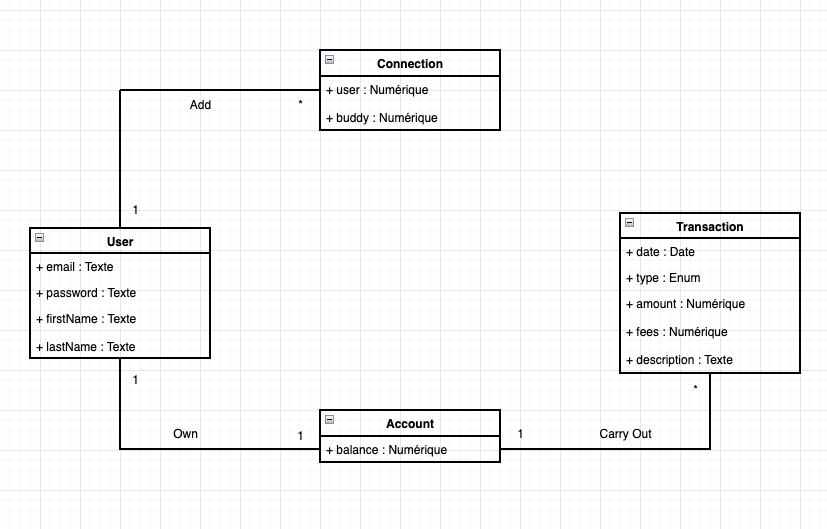
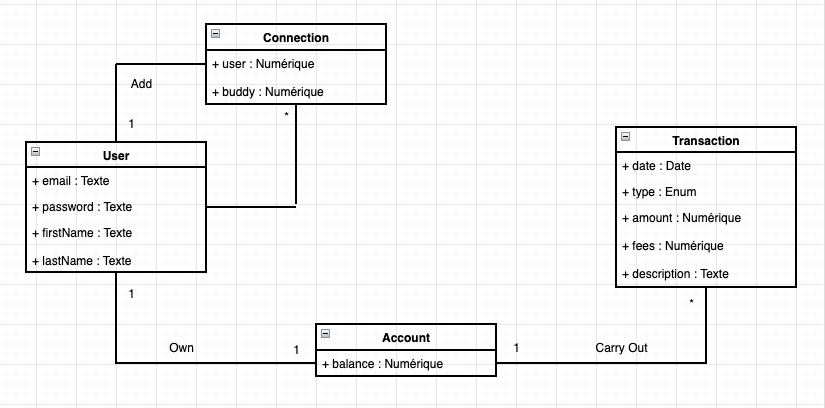
Modification du diagramme UML, des contructeurs des Controllers et de la méthode makeABankTransfer

Changed region(s): [[0.0303, 0.0588, 0.9697, 0.9412]]

diff --git a/src/main/resources/templates/transfer.html b/src/main/resources/templates/transfer.html
@@ -74,7 +74,7 @@
                                 </label>
                             </div>
                             <div id="buddyTrans" class="col-md-4" style="display: none">
-                                <select id="buddyAccount" name="buddyAccount" class="form-select" required>
+                                <select id="buddyAccount" name="buddyAccount" class="form-select">
                                     <option value="">Select A Connection</option>
                                     <option th:each="buddy : ${buddies}" th:value="${buddy.email}" th:text="${buddy.firstName}">Email</option>
                                 </select>

diff --git a/src/main/java/com/paymybuddy/application/controller/TransactionController.java b/src/main/java/com/paymybuddy/application/controller/TransactionController.java
@@ -8,7 +8,6 @@ import com.paymybuddy.application.service.AccountService;
 import com.paymybuddy.application.service.TransactionService;
 import com.paymybuddy.application.service.UserService;
 import lombok.extern.slf4j.Slf4j;
-import org.springframework.beans.factory.annotation.Autowired;
 import org.springframework.data.domain.Page;
 import org.springframework.data.domain.PageRequest;
 import org.springframework.data.domain.Sort;
@@ -28,14 +27,17 @@ import java.util.stream.IntStream;
 @Controller
 public class TransactionController {
 
-    @Autowired
     private UserService userService;
 
-    @Autowired
     private TransactionService transactionService;
 
-    @Autowired
     private AccountService accountService;
+
+    public TransactionController(UserService userService, TransactionService transactionService, AccountService accountService) {
+        this.userService = userService;
+        this.transactionService = transactionService;
+        this.accountService = accountService;
+    }
 
     @GetMapping(value = "/transfer")
     public String transferPage(Authentication authentication, @RequestParam(name = "page", defaultValue = "0") int page, @RequestParam(name="size", defaultValue = "4") int size, Model model) throws Exception {
@@ -57,11 +59,11 @@ public class TransactionController {
     public String newTransfer(@ModelAttribute("newTransaction") Transaction transaction, BindingResult result, HttpServletRequest request, Authentication authentication, Model model) throws Exception {
 
         User user = userService.getUserByEmail(authentication.getName());
-        User buddy = userService.getUserByEmail(request.getParameter("buddyAccount"));
         String errorTransfer = "Your balance is not enough";
 
         if (transaction.getTransactionType().equals(TransactionType.TRANSFER)){
             try {
+                User buddy = userService.getUserByEmail(request.getParameter("buddyAccount"));
                 accountService.makeATransfer(user.getAccount(), buddy.getAccount(), transaction.getTransactionType(), transaction.getAmount(), transaction.getDescription());
                 log.info("New transfer between " + user.getFirstName() + " " + user.getLastName() + " and " + buddy.getFirstName() + " " + buddy.getLastName());
             }catch (Exception e){

diff --git a/src/main/java/com/paymybuddy/application/controller/ConnectionController.java b/src/main/java/com/paymybuddy/application/controller/ConnectionController.java
@@ -2,10 +2,9 @@ package com.paymybuddy.application.controller;
 
 import com.paymybuddy.application.model.Connection;
 import com.paymybuddy.application.model.User;
-import com.paymybuddy.application.service.ConnectionServiceImpl;
+import com.paymybuddy.application.service.ConnectionService;
 import com.paymybuddy.application.service.UserService;
 import lombok.extern.slf4j.Slf4j;
-import org.springframework.beans.factory.annotation.Autowired;
 import org.springframework.security.core.Authentication;
 import org.springframework.stereotype.Controller;
 import org.springframework.ui.Model;
@@ -18,11 +17,14 @@ import javax.servlet.http.HttpServletRequest;
 @Controller
 public class ConnectionController {
 
-    @Autowired
-    private ConnectionServiceImpl connectionService;
+    private ConnectionService connectionService;
 
-    @Autowired
     private UserService userService;
+
+    public ConnectionController(ConnectionService connectionService, UserService userService) {
+        this.connectionService = connectionService;
+        this.userService = userService;
+    }
 
     @RequestMapping(value = "/connection", method = RequestMethod.POST)
     public String addConnection(Authentication authentication, HttpServletRequest request, Model model) throws Exception {

diff --git a/src/main/java/com/paymybuddy/application/controller/UserController.java b/src/main/java/com/paymybuddy/application/controller/UserController.java
@@ -3,7 +3,6 @@ package com.paymybuddy.application.controller;
 import com.paymybuddy.application.model.User;
 import com.paymybuddy.application.service.UserService;
 import lombok.extern.slf4j.Slf4j;
-import org.springframework.beans.factory.annotation.Autowired;
 import org.springframework.security.core.Authentication;
 import org.springframework.stereotype.Controller;
 import org.springframework.ui.Model;
@@ -13,8 +12,11 @@ import org.springframework.web.bind.annotation.*;
 @Controller
 public class UserController {
 
-    @Autowired
     private UserService userService;
+
+    public UserController(UserService userService) {
+        this.userService = userService;
+    }
 
     @GetMapping("/home")
     public String homePage(Authentication authentication, Model model) throws Exception {

diff --git a/src/main/java/com/paymybuddy/application/service/AccountServiceImpl.java b/src/main/java/com/paymybuddy/application/service/AccountServiceImpl.java
@@ -85,6 +85,7 @@ public class AccountServiceImpl implements AccountService{
         transaction.setFees(fees);
         transaction.setDescription(description);
         transaction.setOriginalAccount(account);
+        transaction.setBuddyAccount(account);
         transactionRepository.save(transaction);
     }
 
